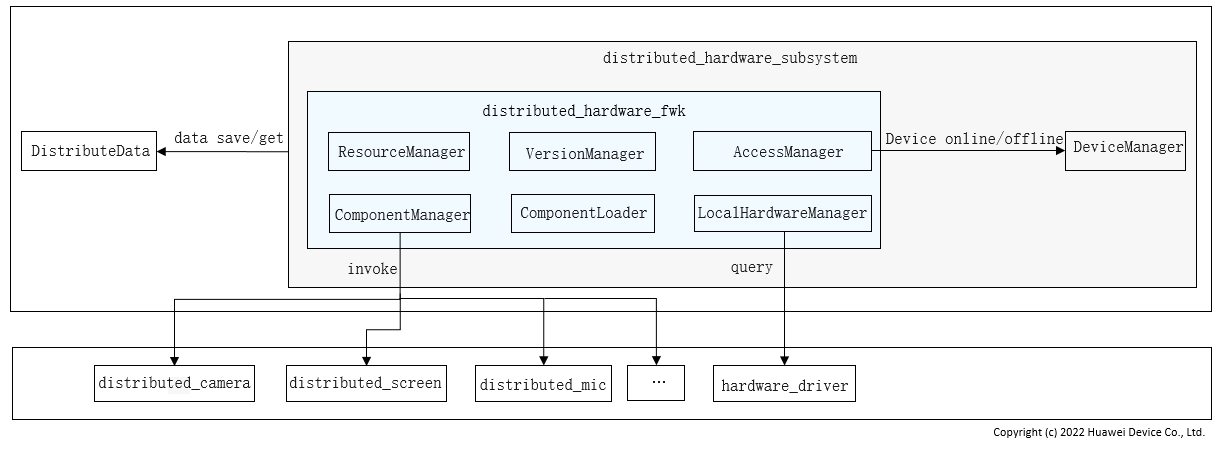
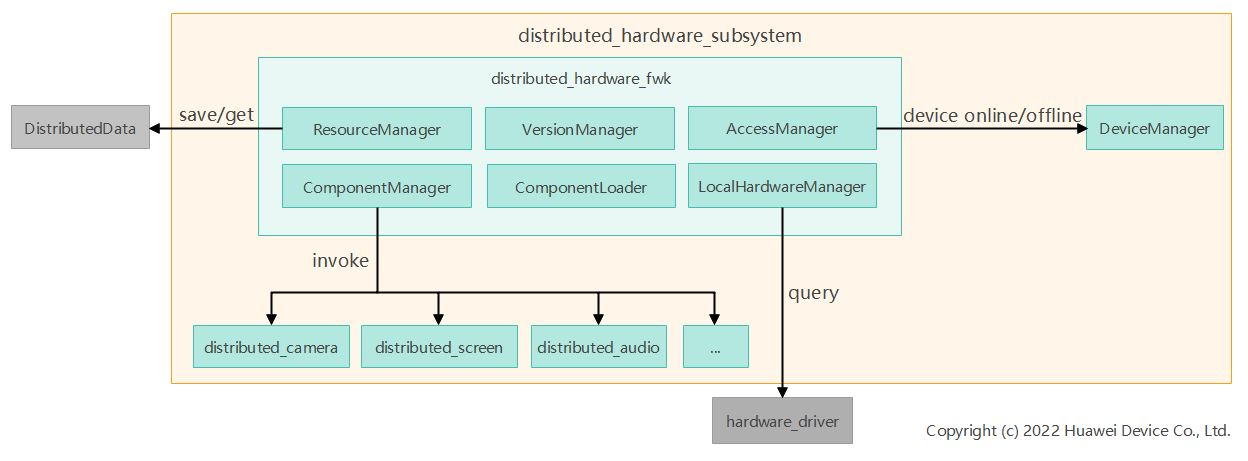
fix ut

Changed region(s): [[0.0, 0.0, 0.9959, 0.9666], [0.7469, 0.9042, 0.9959, 0.9978]]

diff --git a/services/distributedhardwarefwkserviceimpl/test/unittest/common/componentloader/src/component_loader_test.cpp b/services/distributedhardwarefwkserviceimpl/test/unittest/common/componentloader/src/component_loader_test.cpp
@@ -23,132 +23,130 @@ using namespace testing::ext;
 
 namespace OHOS {
 namespace DistributedHardware {
+namespace {
+    std::map<DHType, CompHandler> g_compHandlerMap;
+}
+
 void ComponentLoaderTest::SetUpTestCase(void) {}
 
 void ComponentLoaderTest::TearDownTestCase(void) {}
 
-void ComponentLoaderTest::SetUp() {}
+void ComponentLoaderTest::SetUp()
+{
+    ComponentLoader::GetInstance().Init();
+    g_compHandlerMap = ComponentLoader::GetInstance().compHandlerMap_;
+}
 
-void ComponentLoaderTest::TearDown() {}
+void ComponentLoaderTest::TearDown()
+{
+    ComponentLoader::GetInstance().UnInit();
+    g_compHandlerMap.clear();
+}
 
 /**
  * @tc.name: component_loader_test_001
- * @tc.desc: Verify the Init function.
+ * @tc.desc: Verify the GetLocalDHVersion function.
  * @tc.type: FUNC
  * @tc.require: AR000GHSK3
  */
 HWTEST_F(ComponentLoaderTest, component_loader_test_001, TestSize.Level0)
 {
-    auto ret = ComponentLoader::GetInstance().Init();
+    DHVersion dhVersion;
+    auto ret = ComponentLoader::GetInstance().GetLocalDHVersion(dhVersion);
     EXPECT_EQ(DH_FWK_SUCCESS, ret);
-    EXPECT_TRUE(ComponentLoader::GetInstance().compHandlerMap_.size() != 0);
 }
 
 /**
  * @tc.name: component_loader_test_002
- * @tc.desc: Verify the GetLocalDHVersion function.
+ * @tc.desc: Verify the GetHardwareHandler function.
  * @tc.type: FUNC
  * @tc.require: AR000GHSK3
  */
 HWTEST_F(ComponentLoaderTest, component_loader_test_002, TestSize.Level0)
 {
-    DHVersion dhVersion;
-    auto ret = ComponentLoader::GetInstance().GetLocalDHVersion(dhVersion);
-    EXPECT_EQ(DH_FWK_SUCCESS, ret);
-    EXPECT_TRUE(!dhVersion.compVersions.empty());
-}
-
-/**
- * @tc.name: component_loader_test_003
- * @tc.desc: Verify the GetAllCompTypes function.
- * @tc.type: FUNC
- * @tc.require: AR000GHSK3
- */
-HWTEST_F(ComponentLoaderTest, component_loader_test_003, TestSize.Level0)
-{
-    std::vector<DHType> dhTypes = ComponentLoader::GetInstance().GetAllCompTypes();
-    EXPECT_TRUE(dhTypes.size() != 0);
+    for (const auto &iter : g_compHandlerMap) {
+        IHardwareHandler *hardwareHandlerPtr = nullptr;
+        auto ret = ComponentLoader::GetInstance().GetHardwareHandler(iter.first, hardwareHandlerPtr);
+        EXPECT_EQ(DH_FWK_SUCCESS, ret);
+        EXPECT_TRUE(hardwareHandlerPtr != nullptr);
+    }
 }
 
 /**
  * @tc.name: component_loader_test_004
- * @tc.desc: Verify the GetHardwareHandler function.
+ * @tc.desc: Verify the GetSource function.
  * @tc.type: FUNC
  * @tc.require: AR000GHSK3
  */
 HWTEST_F(ComponentLoaderTest, component_loader_test_004, TestSize.Level0)
 {
-    IHardwareHandler *hardwareHandlerPtr = nullptr;
-    auto ret = ComponentLoader::GetInstance().GetHardwareHandler(DHType::CAMERA, hardwareHandlerPtr);
-    EXPECT_EQ(DH_FWK_SUCCESS, ret);
-    EXPECT_TRUE(hardwareHandlerPtr != nullptr);
+    for (const auto &iter : g_compHandlerMap) {
+        IDistributedHardwareSource *sourcePtr = nullptr;
+        auto ret = ComponentLoader::GetInstance().GetSource(iter.first, sourcePtr);
+        EXPECT_EQ(DH_FWK_SUCCESS, ret);
+        EXPECT_TRUE(sourcePtr != nullptr);
+    }
 }
 
 /**
  * @tc.name: component_loader_test_005
- * @tc.desc: Verify the GetSource function.
+ * @tc.desc: Verify the GetSink function.
  * @tc.type: FUNC
  * @tc.require: AR000GHSK3
  */
 HWTEST_F(ComponentLoaderTest, component_loader_test_005, TestSize.Level0)
 {
-    IDistributedHardwareSource *sourcePtr = nullptr;
-    auto ret = ComponentLoader::GetInstance().GetSource(DHType::CAMERA, sourcePtr);
-    EXPECT_EQ(DH_FWK_SUCCESS, ret);
-    EXPECT_TRUE(sourcePtr != nullptr);
+    for (const auto &iter : g_compHandlerMap) {
+        IDistributedHardwareSink *sinkPtr = nullptr;
+        auto ret = ComponentLoader::GetInstance().GetSink(iter.first, sinkPtr);
+        EXPECT_EQ(DH_FWK_SUCCESS, ret);
+        EXPECT_TRUE(sinkPtr != nullptr);
+    }
 }
 
 /**
  * @tc.name: component_loader_test_006
- * @tc.desc: Verify the GetSink function.
+ * @tc.desc: Verify the ReleaseHardwareHandler function.
  * @tc.type: FUNC
  * @tc.require: AR000GHSK3
  */
 HWTEST_F(ComponentLoaderTest, component_loader_test_006, TestSize.Level0)
 {
-    IDistributedHardwareSink *sinkPtr = nullptr;
-    auto ret = ComponentLoader::GetInstance().GetSink(DHType::CAMERA, sinkPtr);
-    EXPECT_EQ(DH_FWK_SUCCESS, ret);
-    EXPECT_TRUE(sinkPtr != nullptr);
+    for (const auto &iter : g_compHandlerMap) {
+        auto ret = ComponentLoader::GetInstance().ReleaseHardwareHandler(iter.first);
+        EXPECT_EQ(DH_FWK_SUCCESS, ret);
+        EXPECT_TRUE(ComponentLoader::GetInstance().compHandlerMap_[iter.first].hardwareHandler == nullptr);
+    }
 }
 
 /**
  * @tc.name: component_loader_test_007
- * @tc.desc: Verify the ReleaseHardwareHandler function.
+ * @tc.desc: Verify the ReleaseSource function.
  * @tc.type: FUNC
  * @tc.require: AR000GHSK3
  */
 HWTEST_F(ComponentLoaderTest, component_loader_test_007, TestSize.Level0)
 {
-    auto ret = ComponentLoader::GetInstance().ReleaseHardwareHandler(DHType::CAMERA);
-    EXPECT_EQ(DH_FWK_SUCCESS, ret);
-    EXPECT_TRUE(ComponentLoader::GetInstance().compHandlerMap_[DHType::CAMERA].hardwareHandler == nullptr);
+    for (const auto &iter : g_compHandlerMap) {
+        auto ret = ComponentLoader::GetInstance().ReleaseSource(iter.first);
+        EXPECT_EQ(DH_FWK_SUCCESS, ret);
+        EXPECT_TRUE(ComponentLoader::GetInstance().compHandlerMap_[iter.first].sourceHandler == nullptr);
+    }
 }
 
 /**
  * @tc.name: component_loader_test_008
- * @tc.desc: Verify the ReleaseSource function.
+ * @tc.desc: Verify the ReleaseSink function.
  * @tc.type: FUNC
  * @tc.require: AR000GHSK3
  */
 HWTEST_F(ComponentLoaderTest, component_loader_test_008, TestSize.Level0)
 {
-    auto ret = ComponentLoader::GetInstance().ReleaseSource(DHType::CAMERA);
-    EXPECT_EQ(DH_FWK_SUCCESS, ret);
-    EXPECT_TRUE(ComponentLoader::GetInstance().compHandlerMap_[DHType::CAMERA].sourceHandler == nullptr);
-}
-
-/**
- * @tc.name: component_loader_test_009
- * @tc.desc: Verify the ReleaseSink function.
- * @tc.type: FUNC
- * @tc.require: AR000GHSK3
- */
-HWTEST_F(ComponentLoaderTest, component_loader_test_009, TestSize.Level0)
-{
-    auto ret = ComponentLoader::GetInstance().ReleaseSink(DHType::CAMERA);
-    EXPECT_EQ(DH_FWK_SUCCESS, ret);
-    EXPECT_TRUE(ComponentLoader::GetInstance().compHandlerMap_[DHType::CAMERA].sinkHandler == nullptr);
+    for (const auto &iter : g_compHandlerMap) {
+        auto ret = ComponentLoader::GetInstance().ReleaseSink(iter.first);
+        EXPECT_EQ(DH_FWK_SUCCESS, ret);
+        EXPECT_TRUE(ComponentLoader::GetInstance().compHandlerMap_[iter.first].sinkHandler == nullptr);
+    }
 }
 }
 }